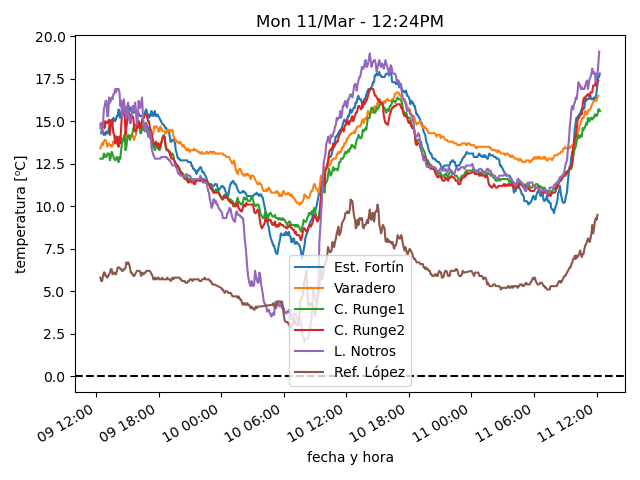
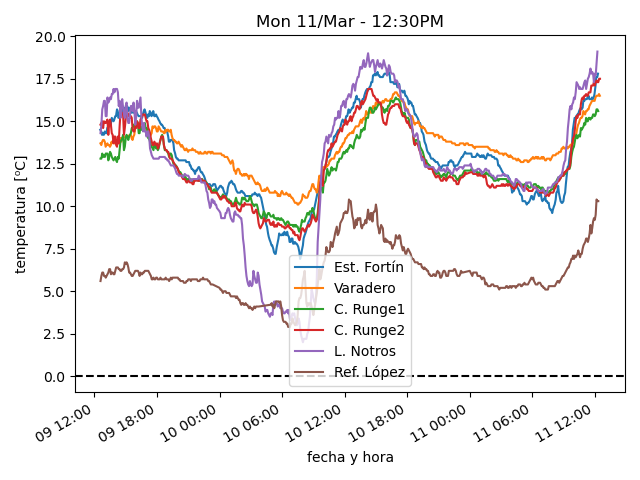
actualiza datos

diff --git a/estaciones/estacion4.html b/estaciones/estacion4.html
@@ -18,32 +18,32 @@
     </tr>
     <tr>
      <td class="stats_data">
-      12:09PM
+      12:29PM
      </td>
     </tr>
     <tr>
      <td class="stats_data">
-      17.4
+      17.5
      </td>
     </tr>
     <tr>
      <td class="stats_data">
-      9.7
+      9.9
      </td>
     </tr>
     <tr>
      <td class="stats_data">
-      60.1
+      60.8
      </td>
     </tr>
     <tr>
      <td class="stats_data">
-      1013.14
+      1013.04
      </td>
     </tr>
     <tr>
      <td class="stats_data">
-      3.9/6.4 SW
+      3.1/4.8 SE
      </td>
     </tr>
     <tr>
@@ -58,7 +58,7 @@
     </tr>
     <tr>
      <td class="stats_data">
-      639.6
+      668.2
      </td>
     </tr>
    </tbody>

diff --git a/estaciones/estacion2.html b/estaciones/estacion2.html
@@ -18,7 +18,7 @@
     </tr>
     <tr>
      <td class="stats_data">
-      12:09PM
+      12:29PM
      </td>
     </tr>
     <tr>
@@ -28,22 +28,22 @@
     </tr>
     <tr>
      <td class="stats_data">
-      10.8
+      10.6
      </td>
     </tr>
     <tr>
      <td class="stats_data">
-      69.0
+      68.1
      </td>
     </tr>
     <tr>
      <td class="stats_data">
-      1014.43
+      1014.33
      </td>
     </tr>
     <tr>
      <td class="stats_data">
-      18.6/23.2 NW
+      18.7/22.4 NW
      </td>
     </tr>
     <tr>
@@ -58,7 +58,7 @@
     </tr>
     <tr>
      <td class="stats_data">
-      636.8
+      651.1
      </td>
     </tr>
    </tbody>

diff --git a/estaciones/estacion6.html b/estaciones/estacion6.html
@@ -18,32 +18,32 @@
     </tr>
     <tr>
      <td class="stats_data">
-      12:05PM
+      12:20PM
      </td>
     </tr>
     <tr>
      <td class="stats_data">
-      9.5
+      10.3
      </td>
     </tr>
     <tr>
      <td class="stats_data">
-      6.4
+      6.5
      </td>
     </tr>
     <tr>
      <td class="stats_data">
-      81.0
+      77.0
      </td>
     </tr>
     <tr>
      <td class="stats_data">
-      1012.94
+      1012.8
      </td>
     </tr>
     <tr>
      <td class="stats_data">
-      6.4/22.5 NNE
+      6.4/14.5 ENE
      </td>
     </tr>
     <tr>
